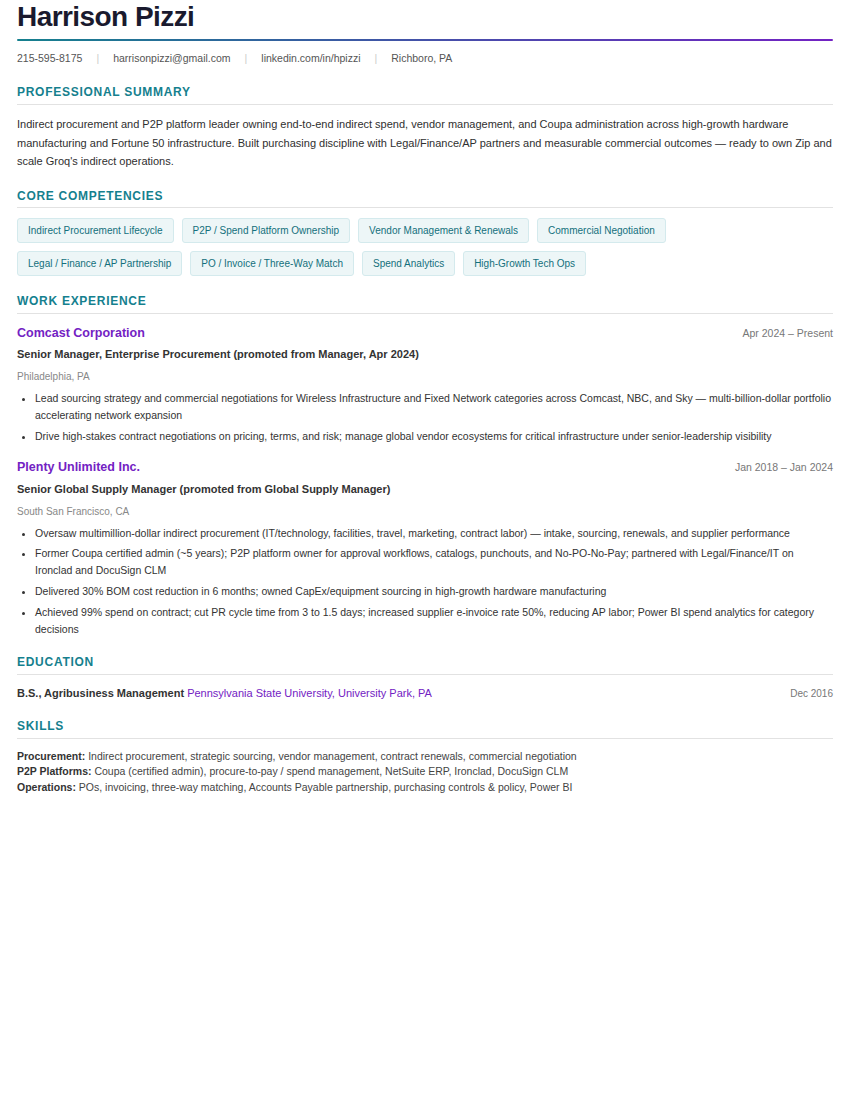
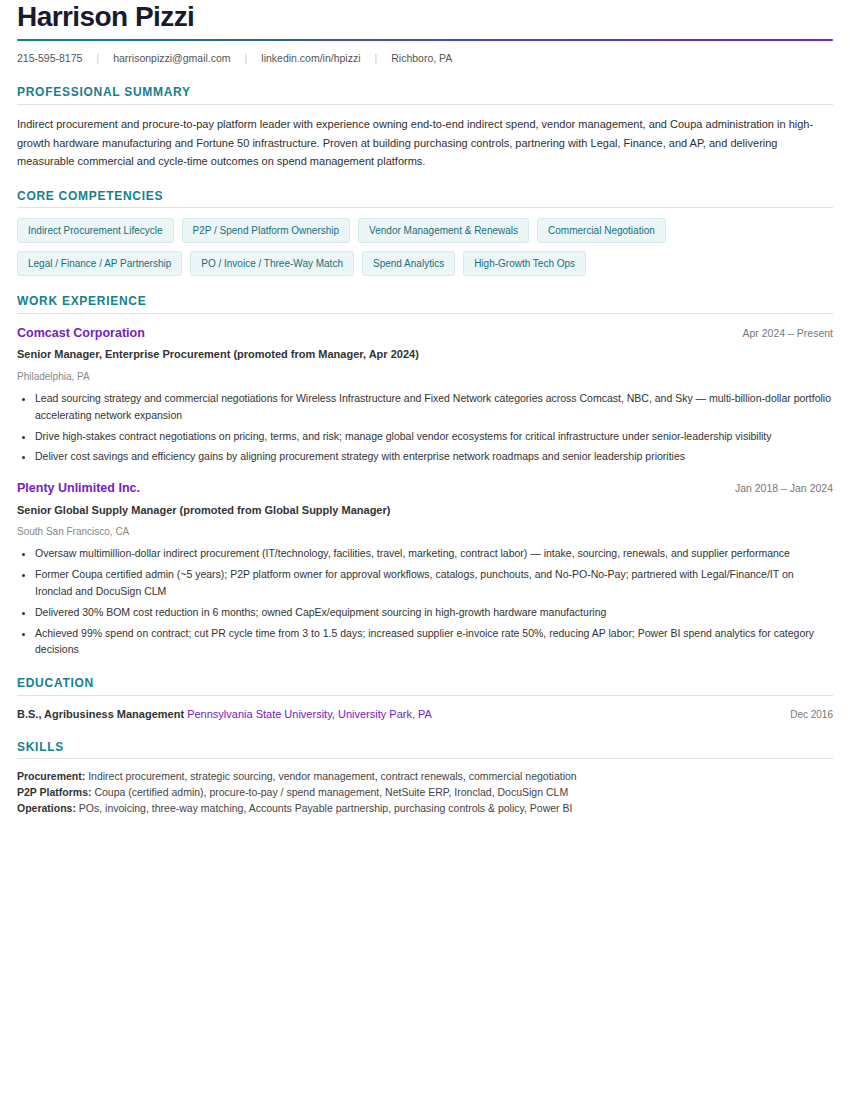
Revise Groq CV summary and add Comcast savings bullet
Drop the awkward aspirational close; add a third Comcast bullet on
roadmap-aligned cost savings and efficiency.

diff --git a/applications/groq-indirect-procurement-lead/Harrison_Pizzi_Groq_Indirect_Procurement_Lead.html b/applications/groq-indirect-procurement-lead/Harrison_Pizzi_Groq_Indirect_Procurement_Lead.html
@@ -634,7 +634,7 @@
   <!-- PROFESSIONAL SUMMARY -->
   <div class="section">
     <div class="section-title">Professional Summary</div>
-    <div class="summary-text">Indirect procurement and P2P platform leader owning end-to-end indirect spend, vendor management, and Coupa administration across high-growth hardware manufacturing and Fortune 50 infrastructure. Built purchasing discipline with Legal/Finance/AP partners and measurable commercial outcomes — ready to own Zip and scale Groq&#39;s indirect operations.</div>
+    <div class="summary-text">Indirect procurement and procure-to-pay platform leader with experience owning end-to-end indirect spend, vendor management, and Coupa administration in high-growth hardware manufacturing and Fortune 50 infrastructure. Proven at building purchasing controls, partnering with Legal, Finance, and AP, and delivering measurable commercial and cycle-time outcomes on spend management platforms.</div>
   </div>
 
   <!-- CORE COMPETENCIES -->
@@ -665,6 +665,7 @@
   <ul>
     <li>Lead sourcing strategy and commercial negotiations for Wireless Infrastructure and Fixed Network categories across Comcast, NBC, and Sky — multi-billion-dollar portfolio accelerating network expansion</li>
     <li>Drive high-stakes contract negotiations on pricing, terms, and risk; manage global vendor ecosystems for critical infrastructure under senior-leadership visibility</li>
+    <li>Deliver cost savings and efficiency gains by aligning procurement strategy with enterprise network roadmaps and senior leadership priorities</li>
   </ul>
 </div>
   <div class="job">
